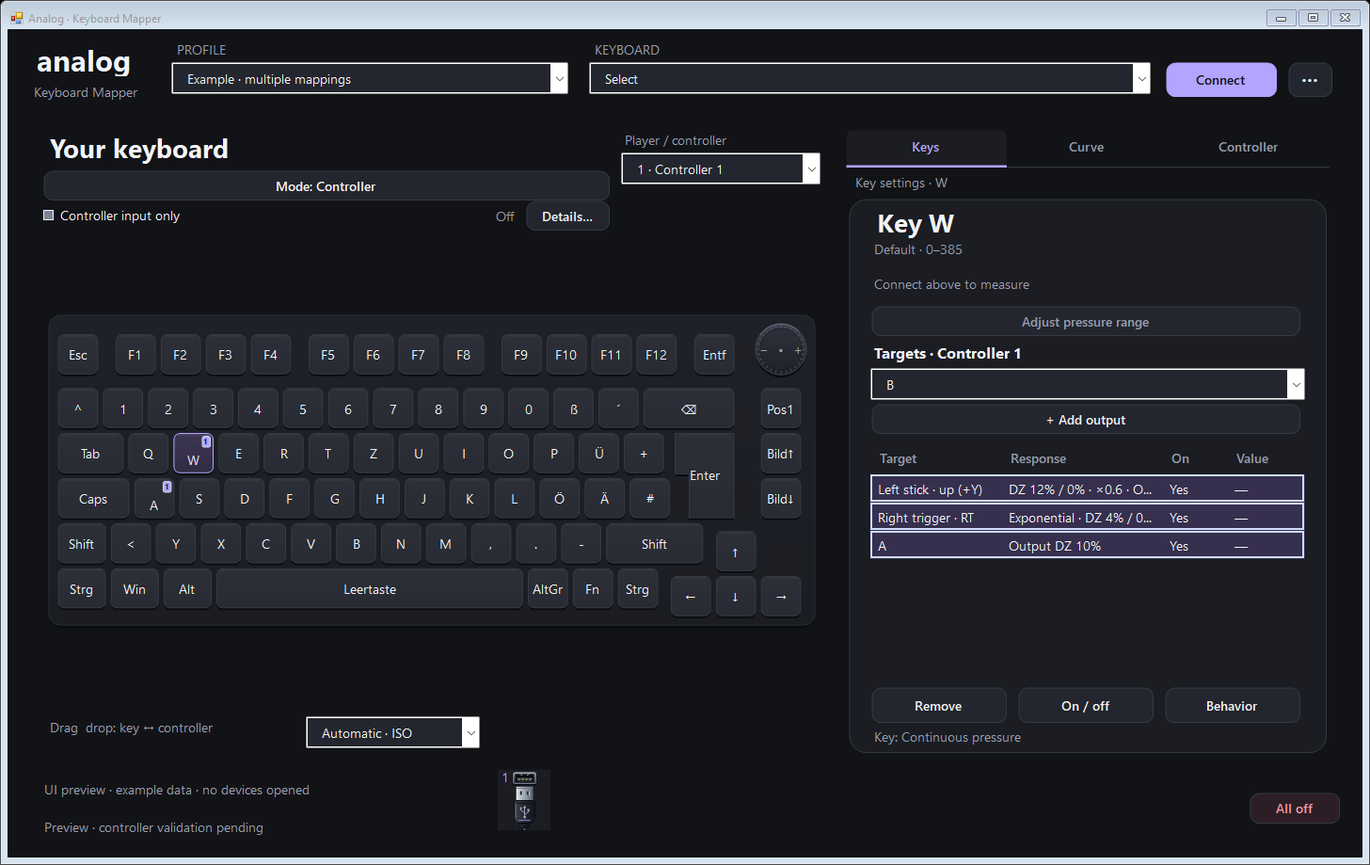
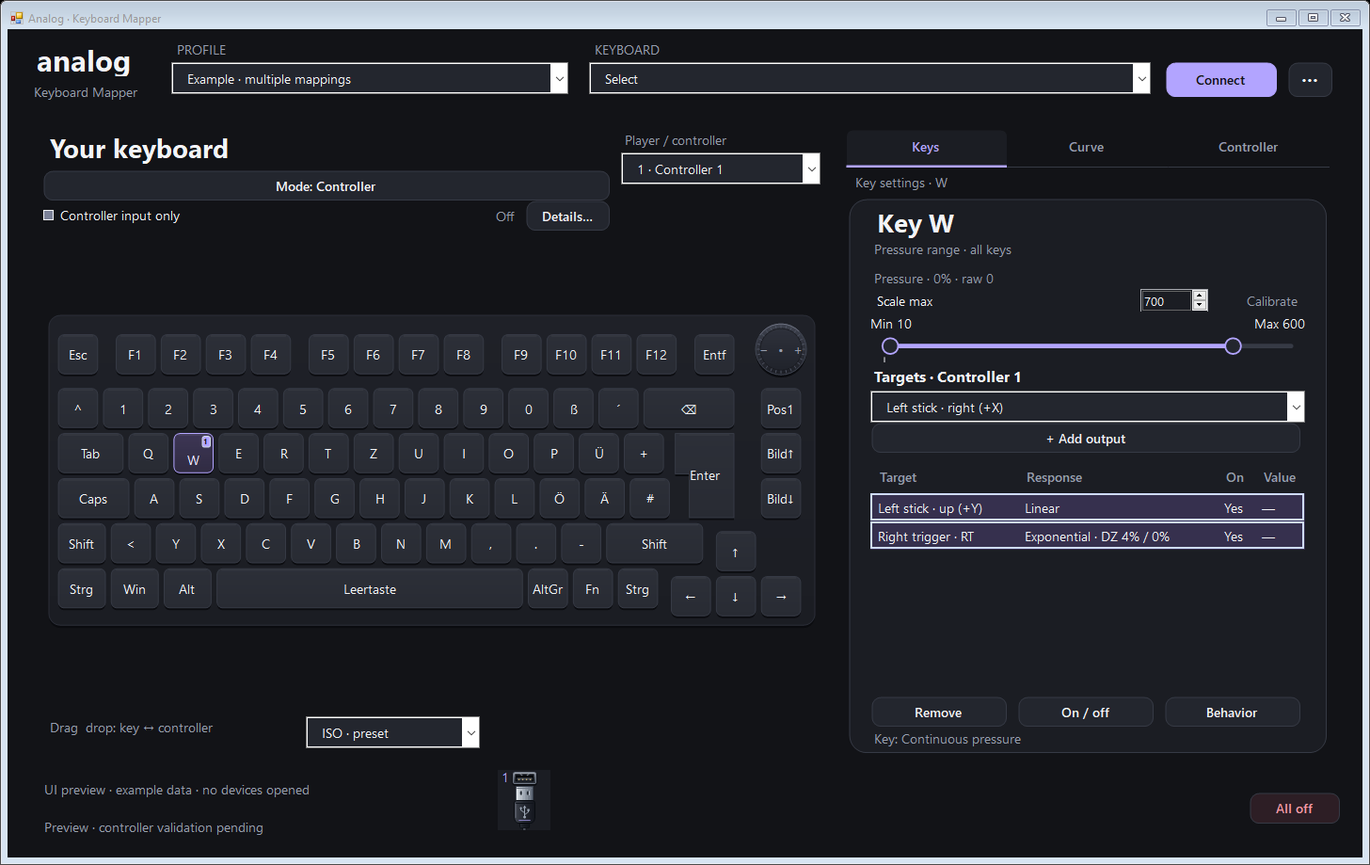
Capture opposite keys with a click while keeping controller drag priority

diff --git a/tests/SocdDragUiHarness.cs b/tests/SocdDragUiHarness.cs
@@ -118,6 +118,7 @@ namespace Tk75.Tests
                 fixture = KeyInputEditing.ApplyActivation(fixture, new[] { 14 }, new KeyInputSettings { ActuationPoint = .24 }, InputActivationFields.Actuation);
                 fixture = KeyInputEditing.ApplyActivation(fixture, new[] { 9 }, new KeyInputSettings { ActuationPoint = .36 }, InputActivationFields.Actuation);
                 Call(form, "Commit", fixture); Pump(form);
+                RunSocdCaptureUi(form, artifacts);
                 Console.WriteLine("SOCD STAGE: fixture ready " + elapsed.ElapsedMilliseconds + " ms");
                 string before = Json(Current(form));
                 object drag = BeginSocdTestDrag(form, new[] { 14 }, new[] { 9 });
@@ -204,6 +205,104 @@ namespace Tk75.Tests
                 typeof(MainForm).GetField("pendingSocdDrag", Private).SetValue(form, null);
             }
             Console.WriteLine("SOCD DRAG UI PASS: " + (assertions - started) + " assertions; internal-only pairing, original selection, symmetric undo, cancellation and stale-data rejection; no OLE or hardware.");
+        }
+
+        static void ArmSocdCapture(MainForm form)
+        {
+            var capture = Field<Button>(form, "captureOpposite");
+            Check(capture.Visible && capture.Enabled, "Capture is directly available inside Keys / Behavior.");
+            capture.PerformClick();
+            Check(Field<object>(form, "socdCapture") != null && capture.Text == UiText.Get("Abbrechen", "Cancel"),
+                "The Capture button arms an explicit opposite-key selection and becomes Cancel.");
+        }
+        static void RunSocdCaptureUi(MainForm form, string artifacts)
+        {
+            int started = assertions;
+            Profile original = Current(form);
+            var keyboard = Field<VisualKeyboard>(form, "keyboard");
+            try
+            {
+                SelectKeys(form, 14); DetailMode(form, "input");
+                string before = Json(Current(form));
+                ArmSocdCapture(form);
+                CapturePreview(form, artifacts, "socd-capture");
+                keyboard.Focus(); Point point = KeyGesturePoint(keyboard, 9);
+                SendKeyboardMouse(keyboard, "OnMouseDown", point);
+                Equal(before, Json(Current(form)), "Mouse-down never commits an opposite-key pairing before the drag threshold is known.");
+                Check(Field<object>(form, "socdCapture") != null && Field<string>(form, "detailsMode") == "input",
+                    "The original capture target survives the opposite key's mouse-down selection change.");
+                SendKeyboardMouse(keyboard, "OnMouseUp", point); Pump(form);
+                var expected = KeyInputEditing.SetPairing(original, new[] { 14 }, 9, KeyInputEditing.GetOrDefault(original, 14).OppositePolicy);
+                Equal(Json(expected), Json(Current(form)), "One opposite-key click pairs both directions, removes former partners and preserves the original target's policy and activation settings.");
+                Check(Field<object>(form, "socdCapture") == null && Field<string>(form, "detailsMode") == "input" &&
+                    ((int[])Call(form, "SelectedKeys")).SequenceEqual(new[] { 14 }),
+                    "Capture completes in Behavior with the originally edited key selected.");
+                Check(form.OwnedForms.Length == 0, "Opposite-key capture opens no dialog.");
+                Check(Field<string>(form, "socdCaptureNotice") != null, "A completed capture reports its result inline.");
+                Call(form, "Undo"); Equal(before, Json(Current(form)), "One Undo reverses the complete captured pairing.");
+                Check(Field<string>(form, "socdCaptureNotice") == null, "Undo clears the old pairing-success notice even when the same target remains selected.");
+                Call(form, "Redo"); Equal(Json(expected), Json(Current(form)), "One Redo restores both captured opposite keys.");
+                Call(form, "Undo"); SelectKeys(form, 14); DetailMode(form, "input");
+
+                ArmSocdCapture(form); ShortKeyboardClick(keyboard, 14); Pump(form);
+                Check(Field<object>(form, "socdCapture") != null && Field<string>(form, "detailsMode") == "input",
+                    "Clicking the same key keeps capture armed in Behavior.");
+                Check(Field<Label>(form, "socdDropTarget").Text.Contains(UiText.Get("Eine andere Taste anklicken.", "Click a different key.")),
+                    "A same-key click explains the correction inline.");
+                Equal(before, Json(Current(form)), "A key can never be paired with itself.");
+                Check((bool)Call(form, "ProcessCmdKey", new Message(), Keys.Escape), "The main-window Escape route cancels armed capture.");
+                Check(Field<object>(form, "socdCapture") == null && Field<string>(form, "detailsMode") == "input",
+                    "Escape returns to ordinary Behavior without leaving capture active.");
+                ArmSocdCapture(form); Field<Button>(form, "captureOpposite").PerformClick();
+                Check(Field<object>(form, "socdCapture") == null, "The Cancel button also disarms capture.");
+                Equal(before, Json(Current(form)), "Both cancellation routes leave the profile unchanged.");
+
+                ArmSocdCapture(form); SelectKeys(form, 9);
+                Check(Field<object>(form, "socdCapture") == null, "Changing selection outside a captured key click cancels the old target.");
+                SelectKeys(form, 14); DetailMode(form, "input"); ArmSocdCapture(form); DetailMode(form, "controller");
+                Check(Field<object>(form, "socdCapture") == null, "Changing tabs disarms capture instead of leaving a hidden input mode.");
+                DetailMode(form, "input"); ArmSocdCapture(form); form.Hide();
+                Check(Field<object>(form, "socdCapture") == null, "Hiding the editor disarms capture before a later tray restore.");
+                form.Show(); Pump(form);
+                DetailMode(form, "input"); ArmSocdCapture(form);
+                Call(form, "CaptureSocdDragContext", keyboard.LayoutModel.FindByIndex(9)); SelectKeys(form, 9);
+                object drag = Call(form, "PrepareKeyMappingDrag", (object)new[] { 9 });
+                Check(drag != null && Field<object>(form, "socdCapture") == null && Field<string>(form, "detailsMode") == "controller",
+                    "Crossing into actual drag preparation cancels capture and prioritizes the Controller tab.");
+                Equal(before, Json(Current(form)), "Dragging an opposite candidate does not accidentally create a pairing.");
+
+                SelectKeys(form, 14); DetailMode(form, "input"); ArmSocdCapture(form);
+                typeof(MainForm).GetField("history", Private).SetValue(form, new EditHistory(Current(form)));
+                ShortKeyboardClick(keyboard, 9); Pump(form);
+                Check(Field<object>(form, "socdCapture") == null && Field<string>(form, "detailsMode") == null,
+                    "A replaced editing history invalidates capture and the click returns to normal Keys navigation.");
+                Equal(before, Json(Current(form)), "A stale capture cannot modify the replacement profile history.");
+
+                SelectKeys(form, 14); DetailMode(form, "input");
+                Field<NumericUpDown>(form, "actuationPoint").Value = 31;
+                Check(Field<bool>(form, "inputDirty"), "The capture fixture contains a pending activation edit.");
+                ArmSocdCapture(form);
+                Profile flushed = Current(form);
+                Check(Math.Abs(KeyInputEditing.GetOrDefault(flushed, 14).ActuationPoint - .31) < .000001,
+                    "Arming capture first applies the original key's pending edit.");
+                ShortKeyboardClick(keyboard, 9); Pump(form);
+                expected = KeyInputEditing.SetPairing(flushed, new[] { 14 }, 9, KeyInputEditing.GetOrDefault(flushed, 14).OppositePolicy);
+                Equal(Json(expected), Json(Current(form)), "Captured pairing keeps the activation draft on the original key.");
+                SelectKeys(form, 15);
+                Check(Field<string>(form, "socdCaptureNotice") == null, "Selecting another key removes the prior target's pairing-result notice.");
+                SelectKeys(form, 14);
+                Call(form, "Undo"); Equal(Json(flushed), Json(Current(form)), "Undoing the capture retains the earlier activation edit.");
+                SelectKeys(form, 9, 14); DetailMode(form, "input");
+                Check(!Field<Button>(form, "captureOpposite").Enabled && Field<ComboBox>(form, "oppositeKey").Enabled,
+                    "Capture names one source key; the existing selector still supports pairing two selected keys.");
+                AssertPassive(form);
+            }
+            finally
+            {
+                Call(form, "CancelSocdCapture", false); Call(form, "Commit", original); SelectKeys(form, 14); DetailMode(form, "input");
+                typeof(MainForm).GetField("pendingSocdDrag", Private).SetValue(form, null);
+            }
+            Console.WriteLine("SOCD CAPTURE UI PASS: " + (assertions - started) + " assertions; click/release pairing, original context, drag priority, inline validation, cancellation and undo.");
         }
     }
 }

diff --git a/src/App/MainForm.SocdCapture.cs b/src/App/MainForm.SocdCapture.cs
@@ -1,0 +1,119 @@
+using System;
+using System.Linq;
+using System.Windows.Forms;
+using Tk75.Mapping;
+
+namespace Tk75.App
+{
+    public sealed partial class MainForm
+    {
+        readonly Button captureOpposite = new SleekButton { Dock = DockStyle.Fill, Margin = new Padding(3, 2, 3, 2) };
+        SocdDragContext socdCapture;
+        int? socdCapturePressedKey;
+        InputOpposedPolicy socdCapturePolicy;
+        string socdCaptureNotice;
+        int? socdCaptureNoticeTarget;
+        object socdCaptureNoticeSnapshot;
+
+        void BeginSocdCapture()
+        {
+            int[] selected = SelectedKeys();
+            if (selected.Length != 1 || closing || deviceDetachInProgress || activeMappingDrag != null) return;
+            FlushInputDraft();
+            SetDetailMode("input", true, false);
+            socdCapture = new SocdDragContext { Selection = selected, Target = selected[0], ProfilePath = profilePath,
+                ControllerId = runtime.SelectedControllerId, Layout = keyboard.LayoutModel,
+                History = history, SnapshotToken = history.SnapshotToken, Mode = "input" };
+            socdCapturePolicy = KeyInputEditing.GetOrDefault(history.Current, selected[0]).OppositePolicy;
+            socdCapturePressedKey = null; socdCaptureNotice = null; socdCaptureNoticeTarget = null; socdCaptureNoticeSnapshot = null;
+            RefreshSocdDropTarget();
+        }
+        bool SocdCaptureCurrent()
+        {
+            return SocdContextCurrent(socdCapture) && socdCapture.Target.HasValue &&
+                Object.ReferenceEquals(history, socdCapture.History) && Object.ReferenceEquals(history.SnapshotToken, socdCapture.SnapshotToken) &&
+                keyboard.LayoutModel != null && keyboard.LayoutModel.FindByIndex(socdCapture.Target.Value) != null;
+        }
+        void TrackSocdCapturePress(KeyboardKeyDefinition source)
+        {
+            if (socdCapture == null) return;
+            if (!SocdCaptureCurrent()) { CancelSocdCapture(false); return; }
+            // Selection changes on mouse-down. Keep the original target until
+            // mouse-up proves this was a click, or drag preparation cancels it.
+            socdCapturePressedKey = source == null ? null : source.KeyIndex;
+            socdCaptureNotice = null;
+        }
+        void FinishSocdCapturePointer()
+        {
+            if (socdCapture == null || !IsHandleCreated || IsDisposed) return;
+            try
+            {
+                BeginInvoke((Action)delegate {
+                    if (IsDisposed || keyboard.Capture || socdCapture == null) return;
+                    socdCapturePressedKey = null;
+                    if (!SelectedKeys().SequenceEqual(socdCapture.Selection)) CancelSocdCapture(false);
+                });
+            }
+            catch (InvalidOperationException) { }
+        }
+        void CancelSocdCapture(bool restoreSelection)
+        {
+            SocdDragContext captured = socdCapture;
+            bool restore = restoreSelection && SocdCaptureCurrent();
+            socdCapture = null; socdCapturePressedKey = null; socdCaptureNotice = null; socdCaptureNoticeTarget = null; socdCaptureNoticeSnapshot = null;
+            if (captured != null && keyboard.Capture) keyboard.Capture = false;
+            if (restore) RestoreSocdSelection(captured.Selection);
+            RefreshSocdDropTarget();
+        }
+        bool TryCancelSocdCapture()
+        {
+            if (socdCapture == null) return false;
+            CancelSocdCapture(true); return true;
+        }
+        bool TryCompleteSocdCapture(KeyboardKeyDefinition opposite)
+        {
+            if (socdCapture == null) return false;
+            if (!SocdCaptureCurrent()) { CancelSocdCapture(false); return false; }
+            SocdDragContext captured = socdCapture;
+            bool valid = opposite != null && opposite.KeyIndex.HasValue &&
+                Object.ReferenceEquals(keyboard.LayoutModel.FindByCode(opposite.Code), opposite);
+            if (!valid || opposite.KeyIndex.Value == captured.Target.Value)
+            {
+                socdCapturePressedKey = null;
+                RestoreSocdSelection(captured.Selection); SetDetailMode("input", true, false);
+                socdCaptureNotice = Tr("Eine andere Taste anklicken.", "Click a different key.");
+                socdCaptureNoticeTarget = captured.Target;
+                socdCaptureNoticeSnapshot = history.SnapshotToken;
+                RefreshSocdDropTarget(); return true;
+            }
+            socdCapture = null; socdCapturePressedKey = null;
+            string result;
+            try
+            {
+                Commit(KeyInputEditing.SetPairing(history.Current, captured.Selection, opposite.KeyIndex.Value, socdCapturePolicy));
+                result = string.Format(Tr("{0} ↔ {1} verbunden", "{0} ↔ {1} paired"), Label(captured.Target.Value), Label(opposite.KeyIndex.Value));
+            }
+            catch (Exception error)
+            {
+                result = Tr("Zuordnung nicht möglich: ", "Could not pair keys: ") + UiText.Get(error.Message);
+                store.Event("Opposite-key capture: " + error.Message);
+            }
+            RestoreSocdSelection(captured.Selection); SetDetailMode("input", true, false); RefreshInputEditor();
+            socdCaptureNotice = result; socdCaptureNoticeTarget = captured.Target; socdCaptureNoticeSnapshot = history.SnapshotToken; RefreshSocdDropTarget();
+            return true;
+        }
+        void RefreshSocdCaptureUi()
+        {
+            if (socdCapture != null && (!SocdCaptureCurrent() ||
+                !socdCapturePressedKey.HasValue && !SelectedKeys().SequenceEqual(socdCapture.Selection)))
+            { socdCapture = null; socdCapturePressedKey = null; socdCaptureNotice = null; socdCaptureNoticeTarget = null; socdCaptureNoticeSnapshot = null; }
+            if (socdCapture == null && socdCaptureNoticeTarget.HasValue &&
+                (!SelectedKeys().SequenceEqual(new[] { socdCaptureNoticeTarget.Value }) || !Object.ReferenceEquals(socdCaptureNoticeSnapshot, history.SnapshotToken)))
+            { socdCaptureNotice = null; socdCaptureNoticeTarget = null; socdCaptureNoticeSnapshot = null; }
+            captureOpposite.Text = socdCapture == null ? Tr("Erfassen", "Capture") : Tr("Abbrechen", "Cancel");
+            captureOpposite.Enabled = !closing && !deviceDetachInProgress && activeMappingDrag == null && (socdCapture != null || SelectedKeys().Length == 1);
+            keyCardTips.SetToolTip(captureOpposite, Tr("Erfassen wählen und die Gegentaste auf der Tastaturabbildung anklicken. Esc bricht ab.",
+                "Choose Capture, then click the opposite key on the keyboard. Esc cancels."));
+        }
+    }
+}

diff --git a/src/App/MainForm.SocdDrag.cs b/src/App/MainForm.SocdDrag.cs
@@ -24,6 +24,7 @@ namespace Tk75.App
         }
         void CaptureSocdDragContext(KeyboardKeyDefinition source)
         {
+            TrackSocdCapturePress(source);
             pendingSocdDrag = null;
             if (source == null || !source.KeyIndex.HasValue || activeMappingDrag != null || closing) return;
             int[] selection = SelectedKeys();
@@ -58,7 +59,15 @@ namespace Tk75.App
         void BuildSocdDragUi(TableLayoutPanel form, int row)
         {
             UiText.PreserveText(socdDropTarget);
-            form.Controls.Add(socdDropTarget, 0, row); form.SetColumnSpan(socdDropTarget, 3);
+            UiText.PreserveText(captureOpposite);
+            var captureRow = new TableLayoutPanel { Dock = DockStyle.Fill, ColumnCount = 2, RowCount = 1, Margin = Padding.Empty };
+            captureRow.ColumnStyles.Add(new ColumnStyle(SizeType.Percent, 100)); captureRow.ColumnStyles.Add(new ColumnStyle(SizeType.Absolute, 94));
+            captureRow.RowStyles.Add(new RowStyle(SizeType.Percent, 100));
+            captureRow.Controls.Add(socdDropTarget, 0, 0); captureRow.Controls.Add(captureOpposite, 1, 0);
+            form.Controls.Add(captureRow, 0, row); form.SetColumnSpan(captureRow, 3);
+            captureOpposite.Click += delegate { if (socdCapture == null) Attempt(BeginSocdCapture); else CancelSocdCapture(true); };
+            keyboard.MouseCaptureChanged += delegate { FinishSocdCapturePointer(); };
+            VisibleChanged += delegate { if (!Visible && socdCapture != null) CancelSocdCapture(false); };
             socdDropTarget.DragEnter += UpdateSocdDrag; socdDropTarget.DragOver += UpdateSocdDrag;
             socdDropTarget.DragLeave += delegate { SetSocdDropHighlight(false); SetDefaultDragHint(); };
             socdDropTarget.DragDrop += DropOnSocd;
@@ -101,13 +110,17 @@ namespace Tk75.App
         }
         void RefreshSocdDropTarget()
         {
+            RefreshSocdCaptureUi();
             int[] selected = SelectedKeys();
             int? target = activeMappingDrag != null && SocdContextCurrent(activeMappingDrag.Socd) ? activeMappingDrag.Socd.Target : selected.Length == 1 ? (int?)selected[0] : null;
-            socdDropTarget.Text = target.HasValue ? string.Format(Tr("Gegentaste für {0} hier ablegen", "Drop the opposite key for {0} here"), Label(target.Value)) :
-                Tr("Eine Taste auswählen, dann die Gegentaste hierher ziehen.", "Select one key, then drag its opposite here.");
-            socdDropTarget.Text += "\n" + Tr("Beim Ziehen über den Reiter Tasten fahren", "While dragging, hover the Keys tab");
+            if (socdCapture != null)
+                socdDropTarget.Text = (socdCaptureNotice ?? string.Format(Tr("Gegentaste für {0} anklicken", "Click the opposite key for {0}"), Label(socdCapture.Target.Value))) + "\n" + Tr("Esc bricht ab", "Esc cancels");
+            else if (activeMappingDrag != null && target.HasValue)
+                socdDropTarget.Text = string.Format(Tr("Gegentaste für {0} hier ablegen", "Drop the opposite key for {0} here"), Label(target.Value));
+            else socdDropTarget.Text = socdCaptureNotice ?? (target.HasValue ? string.Format(Tr("Gegentaste für {0} erfassen", "Capture the opposite key for {0}"), Label(target.Value)) :
+                Tr("Eine Taste zum Erfassen auswählen.", "Select one key to capture its opposite."));
             socdDropTarget.AccessibleName = socdDropTarget.Text;
-            socdDropTarget.AccessibleDescription = Tr("Beim Ziehen öffnet der Reiter Tasten dieses Feld. Alternativ den Gegenpart oben auswählen.", "While dragging, hover the Keys tab to reveal this area. Alternatively choose the opposite key above.");
+            socdDropTarget.AccessibleDescription = Tr("Erfassen wählen, dann die Gegentaste auf der Tastaturabbildung anklicken. Alternativ den Gegenpart oben auswählen.", "Choose Capture, then click the opposite key on the keyboard. Alternatively choose its name above.");
             keyCardTips.SetToolTip(socdDropTarget, socdDropTarget.AccessibleDescription);
         }
         void SetSocdDropHighlight(bool value)

diff --git a/src/App/MainForm.Options.cs b/src/App/MainForm.Options.cs
@@ -84,6 +84,7 @@ namespace Tk75.App
         void SetDetailMode(string mode, bool chosen, bool activate = true)
         {
             if (deviceDetachInProgress || closing) return;
+            if (mode != "input" && socdCapture != null) CancelSocdCapture(false);
             if (mode != detailsMode) { settings.EndEdit(); FlushInputDraft(); }
             detailsMode = mode; advancedVisible = mode == "advanced";
             controllerHeading.Visible = mode == "controller"; detailsTitle.Visible = mode != "controller";
@@ -170,6 +171,7 @@ namespace Tk75.App
         }
         void SetInputTooltips()
         {
+            RefreshSocdCaptureUi();
             keyCardTips.SetToolTip(rapidTrigger, Tr("Nach dem ersten Auslösen reicht ein kurzes Loslassen und erneutes Drücken. Es entstehen keine automatischen Wiederholungen.", "After the first actuation, a small release and renewed press can retrigger. This never generates automatic repeats."));
             keyCardTips.SetToolTip(actuationPoint, Tr("So weit drückst du zuerst, bevor Druckwerte weitergegeben werden. Zugewiesene Controllerknöpfe behalten ihre eigene Schwelle unter Feinabstimmung.", "How far you first press before pressure values pass through. Assigned controller buttons retain their own threshold under Fine tuning."));
             keyCardTips.SetToolTip(releaseMovement, Tr("Wie weit du nach einem Druck loslassen musst, damit die Taste wieder frei ist.", "How far you release from the deepest press before the key becomes inactive."));

diff --git a/src/App/MainForm.Layout.cs b/src/App/MainForm.Layout.cs
@@ -74,7 +74,7 @@ namespace Tk75.App
             player.Controls.Add(mainControllerSlotPicker, 0, 1); introductionRow.Controls.Add(player, 1, 0); keyboardArea.Controls.Add(introductionRow, 0, 0);
             keyboard.Dock = DockStyle.Fill; keyboard.LayoutModel = KeyboardLayout.Tk75Iso(); keyboard.LegendStyle = KeyboardLegendStyle.Qwertz;
             keyboard.SelectionChanged += delegate { if (!updating) SelectKeyboardKeys(); }; keyboardArea.Controls.Add(keyboard, 0, 1);
-            keyboard.KeyClicked += delegate { if (!updating && activeMappingDrag == null) SetDetailMode(null, true, false); };
+            keyboard.KeyClicked += delegate(KeyboardKeyDefinition key) { if (!updating && activeMappingDrag == null && !TryCompleteSocdCapture(key)) SetDetailMode(null, true, false); };
             var legend = new FlowLayoutPanel { Dock = DockStyle.Fill, WrapContents = false, Margin = Padding.Empty, Padding = new Padding(0, 4, 0, 0) };
             var mappingHint = new Label { Text = Tr("Drag & Drop: Taste ↔ Controller", "Drag & drop: key ↔ controller"), Width = 270, Height = 29, TextAlign = ContentAlignment.MiddleLeft, Tag = "muted" };
             keyCardTips.SetToolTip(mappingHint, Tr("Taste auf einen Controller-Button ziehen – oder den Controller-Button auf eine Taste. Strg + Klick wählt mehrere Tasten aus.", "Drag a key onto a controller button, or drag the controller button onto a key. Ctrl + click selects multiple keys."));

diff --git a/src/App/MainForm.cs b/src/App/MainForm.cs
@@ -455,6 +455,7 @@ namespace Tk75.App
         }
         protected override bool ProcessCmdKey(ref Message message, Keys keyData)
         {
+            if (keyData == Keys.Escape && TryCancelSocdCapture()) return true;
             if (deviceDetachInProgress && (keyData == (Keys.Control | Keys.S) || keyData == (Keys.Control | Keys.C) ||
                 keyData == (Keys.Control | Keys.V) || keyData == (Keys.Control | Keys.Z) || keyData == (Keys.Control | Keys.Y) ||
                 keyData == (Keys.Control | Keys.Shift | Keys.Z))) return true;

diff --git a/src/App/MainForm.DragMapping.cs b/src/App/MainForm.DragMapping.cs
@@ -307,6 +307,7 @@ namespace Tk75.App
         }
         MappingDrag PrepareKeyMappingDrag(int[] keysToMap)
         {
+            if (socdCapture != null) CancelSocdCapture(false);
             FlushInputDraft();
             var drag = new MappingDrag { Keys = (int[])keysToMap.Clone(), Socd = TakeSocdDragContext(keysToMap) };
             SetDetailMode("controller", true, false); controllerPanel.PerformLayout();

diff --git a/README.md b/README.md
@@ -13,7 +13,7 @@
 - **Map in both directions.** Drag a key onto a controller output, or an output onto a key. The grabbed shape follows your pointer; readable left/right labels and numbered key badges identify assignments.
 - **Keep controller setups separate.** Mix Xbox 360 and DualSense slots, each with its own mappings, color and USB connection control. Pending connections stay visible and can be cancelled.
 - **See and tune each output.** Keys, Curve and Controller tabs keep the keyboard in place. A clear selection outline and per-output response summaries lead to deadzones, thresholds and a square linear/custom/Bézier curve editor.
-- **Set key behavior together.** Configure Rapid Trigger and opposite-key handling (SOCD), including pairing by drag. Use Ctrl+click or a selection rectangle for bulk edits, with undo.
+- **Set key behavior together.** Configure Rapid Trigger and opposite-key handling (SOCD). Use Capture, then click the opposite key to pair it. Use Ctrl+click or a selection rectangle for bulk edits, with undo.
 - **Calibrate once for every key.** Adjust a shared min/max pressure slider or press one key fully and release. A higher reading automatically expands the scale.
 - **Save your setup and lighting.** Keep JSON profiles, signal presets and named controllers. Optional mapped-key colors include a backup and restore workflow. English and German are included.
 - **Keep the editor out of the way.** Use the tray or opt into Windows startup. Controller reconnection is a separate option that starts off. [Background startup guide](docs/background-startup.md).
@@ -32,7 +32,7 @@ Prefer to compile it yourself? Download the separate **source ZIP**, verify its 
 
 ## Release candidate
 
-**rc.4** adds a shared min/max pressure slider and single-press calibration, a saved **Minimize to tray** option for the window's X, and lighting restoration in the keyboard helper when the app connection ends. Readable modifier labels, output response summaries and SOCD pairing by drag remain available. See the [user guide](docs/user-guide.md).
+**rc.4** adds a shared min/max pressure slider and single-press calibration, SOCD pairing with **Capture** and a key click, a saved **Minimize to tray** option for the window's X, and lighting restoration in the keyboard helper when the app connection ends. Readable modifier labels and output response summaries remain available. See the [user guide](docs/user-guide.md).
 
 The release candidate also includes these connection and lifecycle safeguards:
 

diff --git a/docs/user-guide.md b/docs/user-guide.md
@@ -71,11 +71,7 @@ The output list in **Keys** outlines its selected row even when the list has onl
 
 **Behavior** under Keys controls Rapid Trigger and opposite-key handling (SOCD). These belong to physical keys and are shared by their mappings. Mixed values are marked; editing one field preserves the others. With two selected keys, you can pair them explicitly and choose neutral, first-pressed or last-pressed resolution. Larger selections retain existing pairs and do not offer pair editing.
 
-To pair by dragging, select the first key and open **Behavior**. Drag the opposite key from the keyboard, hover **Keys** to reopen the original key's behavior, and drop onto **Drop the opposite key for … here**. The field names the original key and lights up for a valid drop. This pairs both keys, keeps the original key's SOCD policy and preserves their actuation settings. Existing partners are unpaired; **Undo** restores the previous pairings. Dropping on a tab alone does not create a pair, and **Escape** cancels the drag.
-
-![Behavior editor with the valid opposite-key drop area highlighted](images/socd-opposite-drop.png)
-
-*Synthetic preview: the amber field identifies W as the original key and accepts its dragged opposite. No hardware is connected in these guide images.*
+To capture an opposite key, select the first key and open **Behavior**, then click **Capture**. Click the desired opposite key on the keyboard illustration. This pairs both keys, keeps the original key's SOCD policy and preserves their actuation settings. Existing partners are unpaired; **Undo** restores the previous pairings. **Cancel** or **Escape** cancels capture. Dragging a key continues to open **Controller** for normal output mapping.
 
 ## Profiles and saved data
 

diff --git a/docs/status.md b/docs/status.md
@@ -31,7 +31,7 @@ Profiles offer **32 output-capable slots in total**, each freely assigned to Xbo
 
 ## Recorded automated checks
 
-The rc.4 tests add shared range persistence, automatic calibration after one press and release, editable min/max handles, saved close-to-tray behavior, transient restore retries and helper cleanup with fresh device identification. The release notes link the complete workflow run for the downloadable build. These checks use synthetic sources; physical shutdown and game acceptance for rc.4 remain open.
+The rc.4 tests add shared range persistence, automatic calibration after one press and release, editable min/max handles, opposite-key capture by click, saved close-to-tray behavior, transient restore retries and helper cleanup with fresh device identification. The release notes link the complete workflow run for the downloadable build. These checks use synthetic sources; physical shutdown and game acceptance for rc.4 remain open.
 
 Earlier targeted runs recorded during rc.3 development passed:
 
